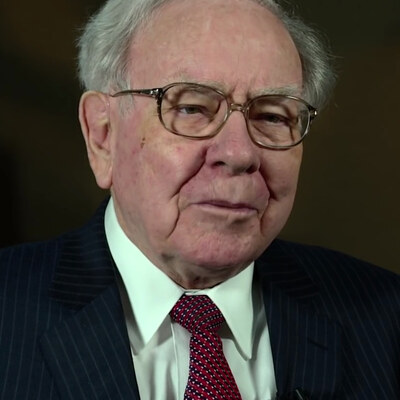
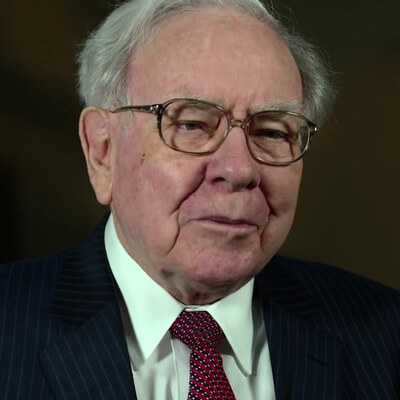
fix: 头像紧贴脸部裁切 (north +50 offset, Cathie 单独 +80) + 列表卡片不再显示空 Notable Holdings 标签

diff --git a/tests/components/InvestorCard.test.ts b/tests/components/InvestorCard.test.ts
@@ -31,10 +31,11 @@ describe('InvestorCard', () => {
     expect(w.text()).toContain('13F')
   })
 
-  it('renders Notable Holdings badge for curated investors', () => {
+  it('hides badge entirely for curated investors (no fake "Notable Holdings" label)', () => {
     const curated = { ...BUFFETT, holdings_source: 'curated' as const, total_value_usd: 0 }
     const w = mount(InvestorCard, { props: { investor: curated, lang: 'en' } })
-    expect(w.text()).toContain('Notable Holdings')
+    expect(w.text()).not.toContain('Notable Holdings')
+    expect(w.text()).not.toMatch(/\$\d+\.\d+B/)
   })
 
   it('links to /investors/{slug}/ (no lang prefix when en)', () => {
